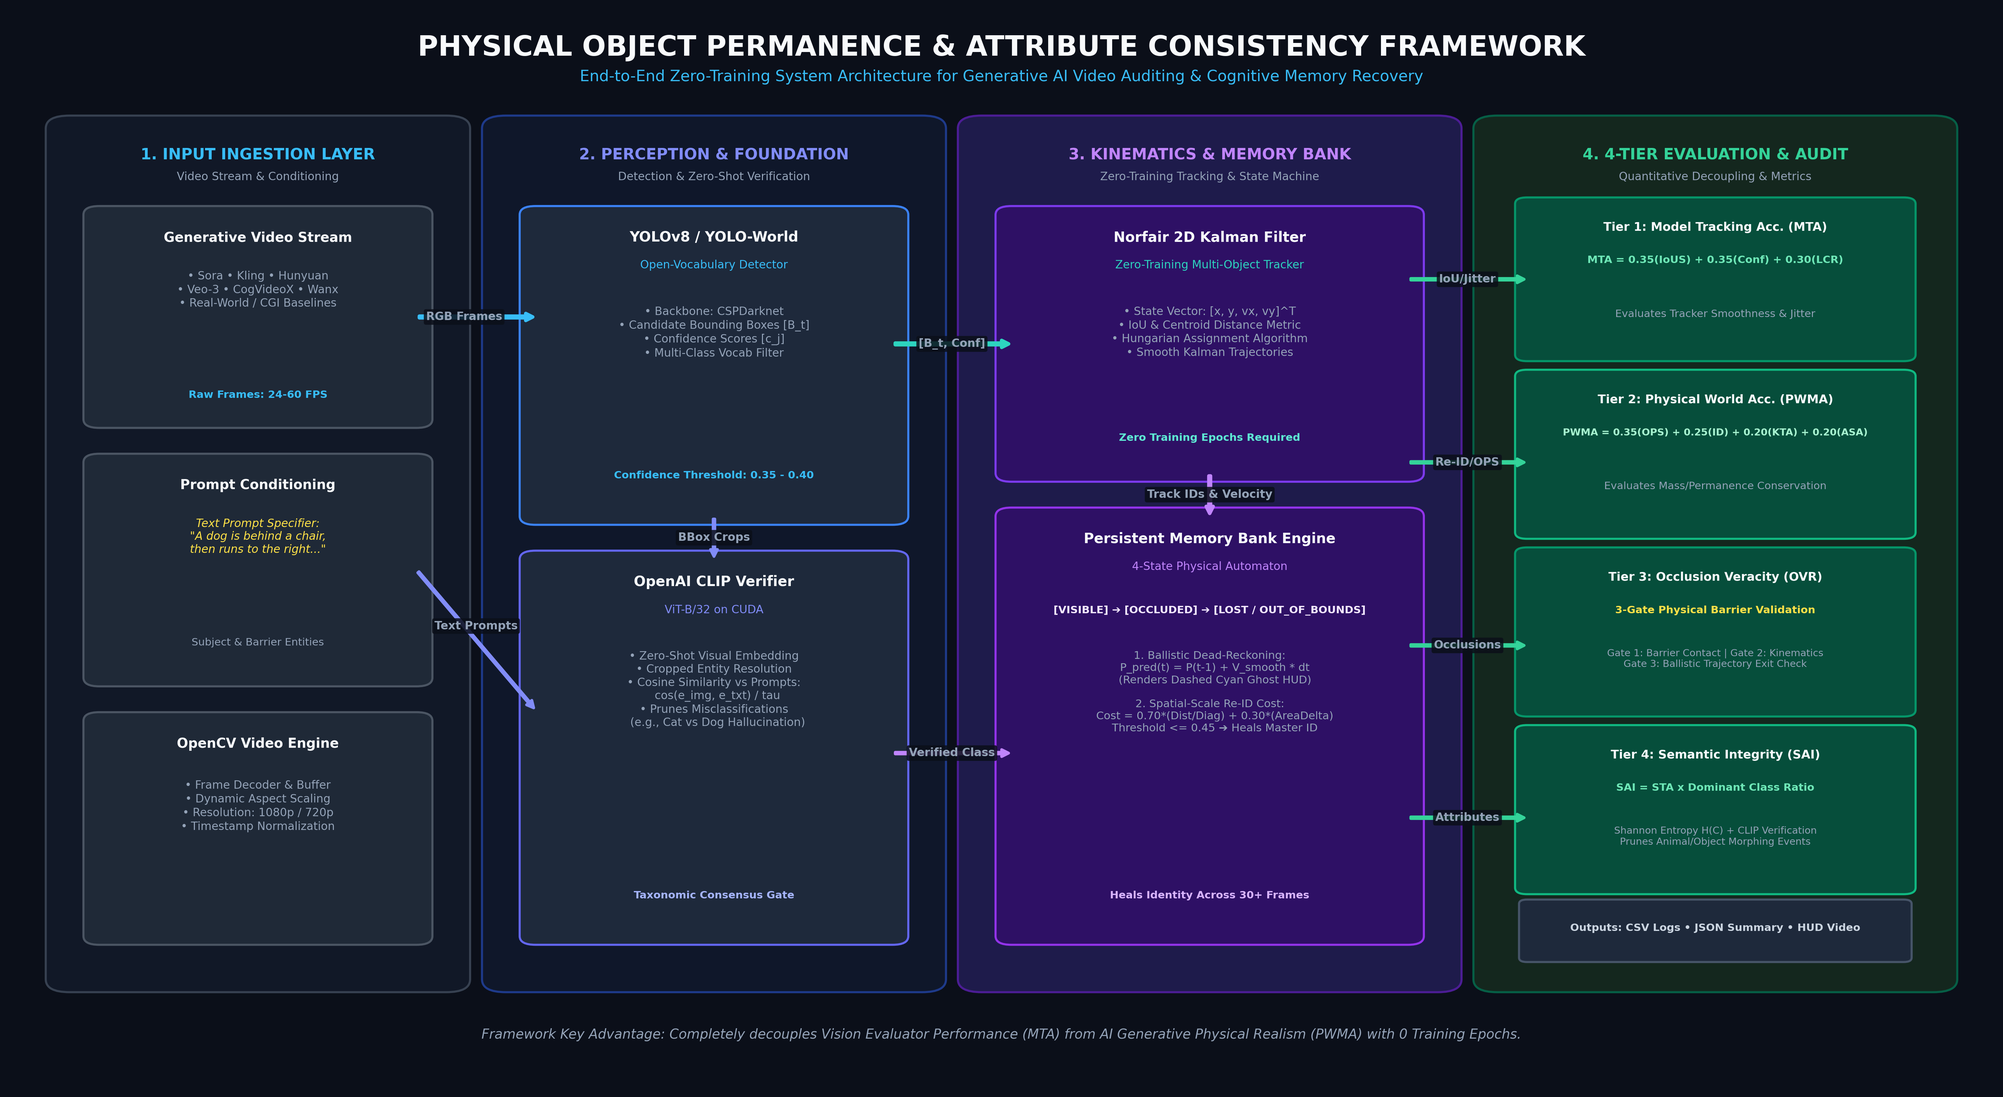
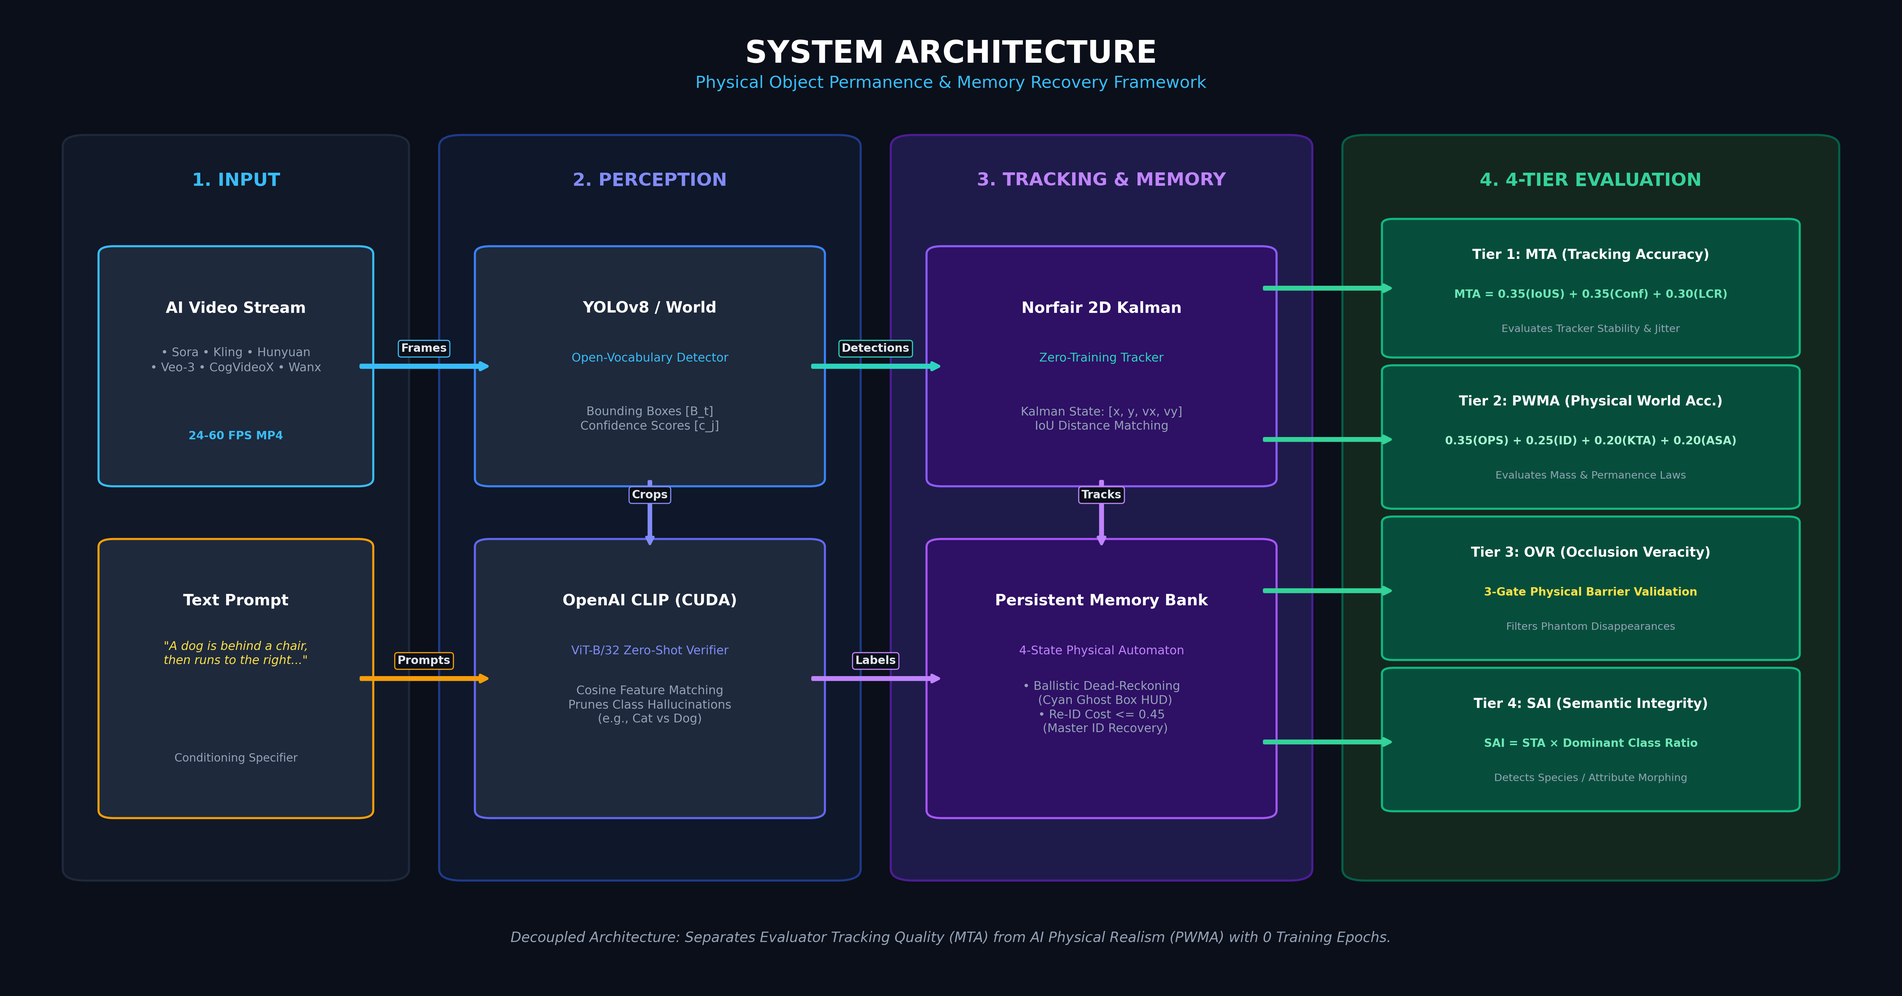
style: streamline system architecture diagram with minimal wording

diff --git a/generate_architecture_diagram.py b/generate_architecture_diagram.py
@@ -3,204 +3,164 @@ import matplotlib.pyplot as plt
 import matplotlib.patches as patches
 from matplotlib.patches import FancyBboxPatch, ArrowStyle
 
-def create_architecture_diagram():
-    # Set up high-resolution canvas
-    fig, ax = plt.subplots(figsize=(20, 11), dpi=300)
-    fig.patch.set_facecolor('#0B0F19') # Deep tech dark background
+def create_clean_architecture_diagram():
+    # Professional 16:9 canvas
+    fig, ax = plt.subplots(figsize=(19, 10), dpi=300)
+    fig.patch.set_facecolor('#0B0F19')
     ax.set_facecolor('#0B0F19')
     ax.set_xlim(0, 100)
     ax.set_ylim(0, 100)
     ax.axis('off')
 
-    # Color Palette - Professional Modern Research Theme
-    c_bg_dark = '#0B0F19'
-    c_card_bg = '#131B2E'
-    c_card_border = '#1E293B'
-    c_text_white = '#F8FAFC'
-    c_text_muted = '#94A3B8'
-    c_text_dim = '#64748B'
-
-    # Accent Colors for Layers
-    c_blue = '#38BDF8'      # Vision & Detection
-    c_indigo = '#818CF8'    # CLIP Foundation
+    # Color Palette - Minimalist Tech Theme
+    c_text_main = '#FFFFFF'
+    c_text_sub = '#94A3B8'
+    c_blue = '#38BDF8'      # Input / Detection
+    c_indigo = '#818CF8'    # CLIP Verifier
     c_teal = '#2DD4BF'      # Kalman Tracking
     c_purple = '#C084FC'    # Memory Bank
-    c_amber = '#FBBF24'     # 4-Tier Evaluation
-    c_emerald = '#34D399'   # Outputs & Audits
+    c_emerald = '#34D399'   # Evaluation Suite
+    c_slate = '#64748B'     # Outputs
 
-    # 1. Main Header
-    ax.text(50, 96.5, "PHYSICAL OBJECT PERMANENCE & ATTRIBUTE CONSISTENCY FRAMEWORK",
-            fontsize=20, weight='bold', color=c_text_white, ha='center', va='center', fontfamily='sans-serif')
-    ax.text(50, 93.8, "End-to-End Zero-Training System Architecture for Generative AI Video Auditing & Cognitive Memory Recovery",
-            fontsize=11, color=c_blue, ha='center', va='center', fontfamily='sans-serif')
+    # Header
+    ax.text(50, 95.5, "SYSTEM ARCHITECTURE", fontsize=22, weight='bold', color=c_text_main, ha='center', va='center')
+    ax.text(50, 92.5, "Physical Object Permanence & Memory Recovery Framework", fontsize=12, color=c_blue, ha='center', va='center')
 
-    # Helper function to draw rounded container cards
-    def draw_card(x, y, w, h, bg_color, border_color, border_width=1.5, radius=1.2, alpha=1.0):
+    # Helper: Draw Card
+    def draw_card(x, y, w, h, bg_color, border_color, border_width=1.5, radius=1.0):
         bbox = FancyBboxPatch((x, y), w, h,
                               boxstyle=f"round,pad={radius},rounding_size={radius}",
                               facecolor=bg_color, edgecolor=border_color,
-                              linewidth=border_width, alpha=alpha, zorder=2)
+                              linewidth=border_width, zorder=2)
         ax.add_patch(bbox)
         return bbox
 
-    # Helper function for arrows
-    def draw_arrow(x1, y1, x2, y2, color=c_blue, style='->', lw=2, dashed=False, label="", label_pos=(0.5, 0.5), label_col=c_text_muted):
-        ls = '--' if dashed else '-'
+    # Helper: Draw Arrow
+    def draw_arrow(x1, y1, x2, y2, color='#38BDF8', lw=2.0, label=""):
         arrow = patches.FancyArrowPatch(
             (x1, y1), (x2, y2),
-            arrowstyle=ArrowStyle("Simple", head_length=5, head_width=5, tail_width=1.2),
-            color=color, linewidth=lw, linestyle=ls, zorder=4
+            arrowstyle=ArrowStyle("Simple", head_length=5, head_width=5, tail_width=1.5),
+            color=color, linewidth=lw, zorder=4
         )
         ax.add_patch(arrow)
         if label:
-            lx = x1 + (x2 - x1) * label_pos[0]
-            ly = y1 + (y2 - y1) * label_pos[1]
-            ax.text(lx, ly, label, fontsize=8, color=label_col, weight='bold', ha='center', va='center',
-                    bbox=dict(boxstyle="round,pad=0.2", facecolor=c_bg_dark, edgecolor='none', alpha=0.85), zorder=5)
+            mx, my = (x1 + x2) / 2, (y1 + y2) / 2
+            ax.text(mx, my + 1.8, label, fontsize=8, weight='bold', color='#E2E8F0', ha='center', va='center',
+                    bbox=dict(boxstyle="round,pad=0.25", facecolor='#0B0F19', edgecolor=color, lw=0.8), zorder=5)
 
     # =========================================================================
-    # COLUMN 1: INPUT & MULTIMODAL INGESTION LAYER (X: 3 - 22)
+    # STAGE 1: INPUT LAYER (X: 4 - 20)
     # =========================================================================
-    draw_card(3, 10, 19, 79, '#111827', '#374151', border_width=1.5)
-    ax.text(12.5, 86.5, "1. INPUT INGESTION LAYER", fontsize=11, weight='bold', color=c_blue, ha='center', va='center')
-    ax.text(12.5, 84.5, "Video Stream & Conditioning", fontsize=8, color=c_text_muted, ha='center', va='center')
+    draw_card(4, 12, 16, 74, '#111827', '#1E293B', radius=1.2)
+    ax.text(12, 82, "1. INPUT", fontsize=13, weight='bold', color=c_blue, ha='center')
 
-    # Sub-card 1: Video Sources
-    draw_card(4.5, 62, 16, 19, '#1F2937', '#4B5563', radius=0.8)
-    ax.text(12.5, 78.5, "Generative Video Stream", fontsize=9.5, weight='bold', color=c_text_white, ha='center')
-    ax.text(12.5, 75.8, "• Sora • Kling • Hunyuan\n• Veo-3 • CogVideoX • Wanx\n• Real-World / CGI Baselines",
-            fontsize=8, color=c_text_muted, ha='center', va='top', linespacing=1.3)
-    ax.text(12.5, 64, "Raw Frames: 24-60 FPS", fontsize=7.5, color=c_blue, ha='center', weight='bold')
+    # Card 1.1: Video Input
+    draw_card(5.5, 52, 13, 23, '#1E293B', '#38BDF8', radius=0.8)
+    ax.text(12, 69, "AI Video Stream", fontsize=11, weight='bold', color=c_text_main, ha='center')
+    ax.text(12, 63, "• Sora • Kling • Hunyuan\n• Veo-3 • CogVideoX • Wanx", fontsize=8.5, color=c_text_sub, ha='center', linespacing=1.4)
+    ax.text(12, 56, "24-60 FPS MP4", fontsize=8, weight='bold', color=c_blue, ha='center')
 
-    # Sub-card 2: Prompt Conditioning
-    draw_card(4.5, 38, 16, 20, '#1F2937', '#4B5563', radius=0.8)
-    ax.text(12.5, 55.5, "Prompt Conditioning", fontsize=9.5, weight='bold', color=c_text_white, ha='center')
-    ax.text(12.5, 52.8, 'Text Prompt Specifier:\n"A dog is behind a chair,\nthen runs to the right..."',
-            fontsize=8, color='#FDE047', ha='center', va='top', style='italic', linespacing=1.2)
-    ax.text(12.5, 41, "Subject & Barrier Entities", fontsize=7.5, color=c_text_muted, ha='center')
-
-    # Sub-card 3: Video Processor
-    draw_card(4.5, 14, 16, 20, '#1F2937', '#4B5563', radius=0.8)
-    ax.text(12.5, 31.5, "OpenCV Video Engine", fontsize=9.5, weight='bold', color=c_text_white, ha='center')
-    ax.text(12.5, 28.5, "• Frame Decoder & Buffer\n• Dynamic Aspect Scaling\n• Resolution: 1080p / 720p\n• Timestamp Normalization",
-            fontsize=8, color=c_text_muted, ha='center', va='top', linespacing=1.3)
+    # Card 1.2: Prompt Input
+    draw_card(5.5, 18, 13, 27, '#1E293B', '#F59E0B', radius=0.8)
+    ax.text(12, 39, "Text Prompt", fontsize=11, weight='bold', color=c_text_main, ha='center')
+    ax.text(12, 33, '"A dog is behind a chair,\nthen runs to the right..."', fontsize=8.5, color='#FDE047', ha='center', style='italic', linespacing=1.3)
+    ax.text(12, 23, "Conditioning Specifier", fontsize=8, color=c_text_sub, ha='center')
 
     # =========================================================================
-    # COLUMN 2: PERCEPTION & FOUNDATION VERIFICATION (X: 25 - 46)
+    # STAGE 2: PERCEPTION & VERIFICATION (X: 24 - 44)
     # =========================================================================
-    draw_card(25, 10, 21, 79, '#0F172A', '#1E3A8A', border_width=1.5)
-    ax.text(35.5, 86.5, "2. PERCEPTION & FOUNDATION", fontsize=11, weight='bold', color=c_indigo, ha='center', va='center')
-    ax.text(35.5, 84.5, "Detection & Zero-Shot Verification", fontsize=8, color=c_text_muted, ha='center', va='center')
+    draw_card(24, 12, 20, 74, '#0F172A', '#1E3A8A', radius=1.2)
+    ax.text(34, 82, "2. PERCEPTION", fontsize=13, weight='bold', color=c_indigo, ha='center')
 
-    # Sub-card 1: YOLO Detector
-    draw_card(26.5, 53, 18, 28, '#1E293B', '#3B82F6', radius=0.8)
-    ax.text(35.5, 78.5, "YOLOv8 / YOLO-World", fontsize=10, weight='bold', color=c_text_white, ha='center')
-    ax.text(35.5, 76, "Open-Vocabulary Detector", fontsize=8, color=c_blue, ha='center')
-    ax.text(35.5, 72.5, "• Backbone: CSPDarknet\n• Candidate Bounding Boxes [B_t]\n• Confidence Scores [c_j]\n• Multi-Class Vocab Filter",
-            fontsize=8, color=c_text_muted, ha='center', va='top', linespacing=1.3)
-    ax.text(35.5, 56.5, "Confidence Threshold: 0.35 - 0.40", fontsize=7.5, color='#38BDF8', ha='center', weight='bold')
+    # Card 2.1: YOLO Detector
+    draw_card(25.5, 52, 17, 23, '#1E293B', '#3B82F6', radius=0.8)
+    ax.text(34, 69, "YOLOv8 / World", fontsize=11, weight='bold', color=c_text_main, ha='center')
+    ax.text(34, 64, "Open-Vocabulary Detector", fontsize=8.5, color=c_blue, ha='center')
+    ax.text(34, 57, "Bounding Boxes [B_t]\nConfidence Scores [c_j]", fontsize=8.5, color=c_text_sub, ha='center', linespacing=1.3)
 
-    # Sub-card 2: CLIP Verifier
-    draw_card(26.5, 14, 18, 35, '#1E293B', '#6366F1', radius=0.8)
-    ax.text(35.5, 46.5, "OpenAI CLIP Verifier", fontsize=10, weight='bold', color=c_text_white, ha='center')
-    ax.text(35.5, 44, "ViT-B/32 on CUDA", fontsize=8, color=c_indigo, ha='center')
-    ax.text(35.5, 40.5, "• Zero-Shot Visual Embedding\n• Cropped Entity Resolution\n• Cosine Similarity vs Prompts:\n  cos(e_img, e_txt) / tau\n• Prunes Misclassifications\n  (e.g., Cat vs Dog Hallucination)",
-            fontsize=8, color=c_text_muted, ha='center', va='top', linespacing=1.25)
-    ax.text(35.5, 17.5, "Taxonomic Consensus Gate", fontsize=7.5, color='#A5B4FC', ha='center', weight='bold')
+    # Card 2.2: CLIP Verifier
+    draw_card(25.5, 18, 17, 27, '#1E293B', '#6366F1', radius=0.8)
+    ax.text(34, 39, "OpenAI CLIP (CUDA)", fontsize=11, weight='bold', color=c_text_main, ha='center')
+    ax.text(34, 34, "ViT-B/32 Zero-Shot Verifier", fontsize=8.5, color=c_indigo, ha='center')
+    ax.text(34, 27, "Cosine Feature Matching\nPrunes Class Hallucinations\n(e.g., Cat vs Dog)", fontsize=8.5, color=c_text_sub, ha='center', linespacing=1.3)
 
     # =========================================================================
-    # COLUMN 3: KINEMATICS & MEMORY BANK (X: 49 - 72)
+    # STAGE 3: KINEMATICS & MEMORY (X: 48 - 68)
     # =========================================================================
-    draw_card(49, 10, 23, 79, '#1E1B4B', '#4C1D95', border_width=1.5)
-    ax.text(60.5, 86.5, "3. KINEMATICS & MEMORY BANK", fontsize=11, weight='bold', color=c_purple, ha='center', va='center')
-    ax.text(60.5, 84.5, "Zero-Training Tracking & State Machine", fontsize=8, color=c_text_muted, ha='center', va='center')
+    draw_card(48, 12, 20, 74, '#1E1B4B', '#4C1D95', radius=1.2)
+    ax.text(58, 82, "3. TRACKING & MEMORY", fontsize=13, weight='bold', color=c_purple, ha='center')
 
-    # Sub-card 1: Norfair 2D Kalman Filter
-    draw_card(50.5, 57, 20, 24, '#2E1065', '#7C3AED', radius=0.8)
-    ax.text(60.5, 78.5, "Norfair 2D Kalman Filter", fontsize=10, weight='bold', color=c_text_white, ha='center')
-    ax.text(60.5, 76, "Zero-Training Multi-Object Tracker", fontsize=8, color=c_teal, ha='center')
-    ax.text(60.5, 72.5, "• State Vector: [x, y, vx, vy]^T\n• IoU & Centroid Distance Metric\n• Hungarian Assignment Algorithm\n• Smooth Kalman Trajectories",
-            fontsize=8, color=c_text_muted, ha='center', va='top', linespacing=1.3)
-    ax.text(60.5, 60, "Zero Training Epochs Required", fontsize=7.5, color='#5EEAD4', ha='center', weight='bold')
+    # Card 3.1: Norfair Tracker
+    draw_card(49.5, 52, 17, 23, '#2E1065', '#8B5CF6', radius=0.8)
+    ax.text(58, 69, "Norfair 2D Kalman", fontsize=11, weight='bold', color=c_text_main, ha='center')
+    ax.text(58, 64, "Zero-Training Tracker", fontsize=8.5, color=c_teal, ha='center')
+    ax.text(58, 57, "Kalman State: [x, y, vx, vy]\nIoU Distance Matching", fontsize=8.5, color=c_text_sub, ha='center', linespacing=1.3)
 
-    # Sub-card 2: Persistent Memory Bank & State Machine
-    draw_card(50.5, 14, 20, 39, '#2E1065', '#9333EA', radius=0.8)
-    ax.text(60.5, 50.5, "Persistent Memory Bank Engine", fontsize=10, weight='bold', color=c_text_white, ha='center')
-    ax.text(60.5, 48, "4-State Physical Automaton", fontsize=8, color=c_purple, ha='center')
-    
-    # State pills
-    ax.text(60.5, 44, "[VISIBLE] ➔ [OCCLUDED] ➔ [LOST / OUT_OF_BOUNDS]", fontsize=7.5, color='#F3E8FF', ha='center', weight='bold')
-    
-    ax.text(60.5, 40.5, "1. Ballistic Dead-Reckoning:\n   P_pred(t) = P(t-1) + V_smooth * dt\n   (Renders Dashed Cyan Ghost HUD)\n\n2. Spatial-Scale Re-ID Cost:\n   Cost = 0.70*(Dist/Diag) + 0.30*(AreaDelta)\n   Threshold <= 0.45 ➔ Heals Master ID",
-            fontsize=7.8, color=c_text_muted, ha='center', va='top', linespacing=1.2)
-    ax.text(60.5, 17.5, "Heals Identity Across 30+ Frames", fontsize=7.5, color='#D8B4FE', ha='center', weight='bold')
+    # Card 3.2: Persistent Memory Bank
+    draw_card(49.5, 18, 17, 27, '#2E1065', '#A855F7', radius=0.8)
+    ax.text(58, 39, "Persistent Memory Bank", fontsize=11, weight='bold', color=c_text_main, ha='center')
+    ax.text(58, 34, "4-State Physical Automaton", fontsize=8.5, color=c_purple, ha='center')
+    ax.text(58, 26, "• Ballistic Dead-Reckoning\n  (Cyan Ghost Box HUD)\n• Re-ID Cost <= 0.45\n  (Master ID Recovery)",
+            fontsize=8.5, color=c_text_sub, ha='center', linespacing=1.3)
 
     # =========================================================================
-    # COLUMN 4: 4-TIER EVALUATION SUITE (X: 75 - 97)
+    # STAGE 4: 4-TIER EVALUATION (X: 72 - 96)
     # =========================================================================
-    draw_card(75, 10, 22, 79, '#14271E', '#065F46', border_width=1.5)
-    ax.text(86, 86.5, "4. 4-TIER EVALUATION & AUDIT", fontsize=11, weight='bold', color=c_emerald, ha='center', va='center')
-    ax.text(86, 84.5, "Quantitative Decoupling & Metrics", fontsize=8, color=c_text_muted, ha='center', va='center')
+    draw_card(72, 12, 24, 74, '#14271E', '#065F46', radius=1.2)
+    ax.text(84, 82, "4. 4-TIER EVALUATION", fontsize=13, weight='bold', color=c_emerald, ha='center')
 
-    # Sub-card: Tier 1 MTA
-    draw_card(76.5, 68, 19, 14, '#064E3B', '#059669', radius=0.6)
-    ax.text(86, 79.5, "Tier 1: Model Tracking Acc. (MTA)", fontsize=8.5, weight='bold', color=c_text_white, ha='center')
-    ax.text(86, 76.5, "MTA = 0.35(IoUS) + 0.35(Conf) + 0.30(LCR)", fontsize=7.5, color='#6EE7B7', ha='center', weight='bold')
-    ax.text(86, 71.5, "Evaluates Tracker Smoothness & Jitter", fontsize=7.5, color=c_text_muted, ha='center')
+    # Card 4.1: MTA
+    draw_card(73.5, 65, 21, 13, '#064E3B', '#10B981', radius=0.6)
+    ax.text(84, 74.5, "Tier 1: MTA (Tracking Accuracy)", fontsize=9.5, weight='bold', color=c_text_main, ha='center')
+    ax.text(84, 70.5, "MTA = 0.35(IoUS) + 0.35(Conf) + 0.30(LCR)", fontsize=8, weight='bold', color='#6EE7B7', ha='center')
+    ax.text(84, 67, "Evaluates Tracker Stability & Jitter", fontsize=7.5, color=c_text_sub, ha='center')
 
-    # Sub-card: Tier 2 PWMA
-    draw_card(76.5, 51.5, 19, 14.5, '#064E3B', '#10B981', radius=0.6)
-    ax.text(86, 63.5, "Tier 2: Physical World Acc. (PWMA)", fontsize=8.5, weight='bold', color=c_text_white, ha='center')
-    ax.text(86, 60.5, "PWMA = 0.35(OPS) + 0.25(ID) + 0.20(KTA) + 0.20(ASA)", fontsize=7, color='#A7F3D0', ha='center', weight='bold')
-    ax.text(86, 55.5, "Evaluates Mass/Permanence Conservation", fontsize=7.5, color=c_text_muted, ha='center')
+    # Card 4.2: PWMA
+    draw_card(73.5, 49.5, 21, 13.5, '#064E3B', '#10B981', radius=0.6)
+    ax.text(84, 59.5, "Tier 2: PWMA (Physical World Acc.)", fontsize=9.5, weight='bold', color=c_text_main, ha='center')
+    ax.text(84, 55.5, "0.35(OPS) + 0.25(ID) + 0.20(KTA) + 0.20(ASA)", fontsize=8, weight='bold', color='#A7F3D0', ha='center')
+    ax.text(84, 52, "Evaluates Mass & Permanence Laws", fontsize=7.5, color=c_text_sub, ha='center')
 
-    # Sub-card: Tier 3 OVR
-    draw_card(76.5, 35, 19, 14.5, '#064E3B', '#059669', radius=0.6)
-    ax.text(86, 47, "Tier 3: Occlusion Veracity (OVR)", fontsize=8.5, weight='bold', color=c_text_white, ha='center')
-    ax.text(86, 44, "3-Gate Physical Barrier Validation", fontsize=7.5, color='#FDE047', ha='center', weight='bold')
-    ax.text(86, 39, "Gate 1: Barrier Contact | Gate 2: Kinematics\nGate 3: Ballistic Trajectory Exit Check",
-            fontsize=7, color=c_text_muted, ha='center', linespacing=1.2)
+    # Card 4.3: OVR
+    draw_card(73.5, 34, 21, 13.5, '#064E3B', '#10B981', radius=0.6)
+    ax.text(84, 44, "Tier 3: OVR (Occlusion Veracity)", fontsize=9.5, weight='bold', color=c_text_main, ha='center')
+    ax.text(84, 40, "3-Gate Physical Barrier Validation", fontsize=8, weight='bold', color='#FDE047', ha='center')
+    ax.text(84, 36.5, "Filters Phantom Disappearances", fontsize=7.5, color=c_text_sub, ha='center')
 
-    # Sub-card: Tier 4 SAI
-    draw_card(76.5, 18.5, 19, 14.5, '#064E3B', '#10B981', radius=0.6)
-    ax.text(86, 30.5, "Tier 4: Semantic Integrity (SAI)", fontsize=8.5, weight='bold', color=c_text_white, ha='center')
-    ax.text(86, 27.5, "SAI = STA x Dominant Class Ratio", fontsize=7.5, color='#6EE7B7', ha='center', weight='bold')
-    ax.text(86, 22.5, "Shannon Entropy H(C) + CLIP Verification\nPrunes Animal/Object Morphing Events",
-            fontsize=7, color=c_text_muted, ha='center', linespacing=1.2)
-
-    # Sub-card: Artifact Outputs
-    draw_card(76.5, 12, 19, 5, '#1E293B', '#475569', radius=0.4)
-    ax.text(86, 14.5, "Outputs: CSV Logs • JSON Summary • HUD Video", fontsize=7.5, color='#CBD5E1', ha='center', weight='bold')
+    # Card 4.4: SAI
+    draw_card(73.5, 18.5, 21, 13.5, '#064E3B', '#10B981', radius=0.6)
+    ax.text(84, 28.5, "Tier 4: SAI (Semantic Integrity)", fontsize=9.5, weight='bold', color=c_text_main, ha='center')
+    ax.text(84, 24.5, "SAI = STA × Dominant Class Ratio", fontsize=8, weight='bold', color='#6EE7B7', ha='center')
+    ax.text(84, 21, "Detects Species / Attribute Morphing", fontsize=7.5, color=c_text_sub, ha='center')
 
     # =========================================================================
-    # CONNECTING ARROWS & DATA PIPELINES
+    # CONNECTING PIPELINES
     # =========================================================================
-    # Input -> YOLO
-    draw_arrow(20.5, 71.5, 26.5, 71.5, color=c_blue, lw=2.5, label="RGB Frames", label_pos=(0.4, 0.5))
-    # Input -> Prompt Conditioning -> YOLO & CLIP
-    draw_arrow(20.5, 48, 26.5, 35, color=c_indigo, lw=2, label="Text Prompts", label_pos=(0.5, 0.4))
-    
+    # Video -> YOLO
+    draw_arrow(18.5, 63.5, 25.5, 63.5, color=c_blue, lw=2.2, label="Frames")
+    # Prompt -> CLIP & YOLO
+    draw_arrow(18.5, 31.5, 25.5, 31.5, color='#F59E0B', lw=2.0, label="Prompts")
+
     # YOLO -> Norfair
-    draw_arrow(44.5, 69, 50.5, 69, color=c_teal, lw=2.5, label="[B_t, Conf]", label_pos=(0.5, 0.5))
-    # YOLO -> CLIP (Crops)
-    draw_arrow(35.5, 53, 35.5, 49, color=c_indigo, lw=2, label="BBox Crops", label_pos=(0.5, 0.5))
-    # CLIP -> Memory Bank & Metrics
-    draw_arrow(44.5, 31, 50.5, 31, color=c_purple, lw=2, label="Verified Class", label_pos=(0.5, 0.5))
+    draw_arrow(42.5, 63.5, 49.5, 63.5, color=c_teal, lw=2.2, label="Detections")
+    # YOLO -> CLIP (Crops) & CLIP -> Memory
+    draw_arrow(34, 52, 34, 45, color=c_indigo, lw=1.8, label="Crops")
+    draw_arrow(42.5, 31.5, 49.5, 31.5, color=c_purple, lw=2.0, label="Labels")
 
-    # Norfair -> Memory Bank
-    draw_arrow(60.5, 57, 60.5, 53, color=c_purple, lw=2.5, label="Track IDs & Velocity", label_pos=(0.5, 0.5))
+    # Norfair -> Memory
+    draw_arrow(58, 52, 58, 45, color=c_purple, lw=2.0, label="Tracks")
 
-    # Kinematics & Memory Bank -> Evaluation Suite
-    draw_arrow(70.5, 75, 76.5, 75, color=c_emerald, lw=2, label="IoU/Jitter", label_pos=(0.5, 0.5))
-    draw_arrow(70.5, 58, 76.5, 58, color=c_emerald, lw=2, label="Re-ID/OPS", label_pos=(0.5, 0.5))
-    draw_arrow(70.5, 41, 76.5, 41, color=c_emerald, lw=2, label="Occlusions", label_pos=(0.5, 0.5))
-    draw_arrow(70.5, 25, 76.5, 25, color=c_emerald, lw=2, label="Attributes", label_pos=(0.5, 0.5))
+    # Memory -> Evaluation Suite
+    draw_arrow(66.5, 71.5, 73.5, 71.5, color=c_emerald, lw=2.0)
+    draw_arrow(66.5, 56, 73.5, 56, color=c_emerald, lw=2.0)
+    draw_arrow(66.5, 40.5, 73.5, 40.5, color=c_emerald, lw=2.0)
+    draw_arrow(66.5, 25, 73.5, 25, color=c_emerald, lw=2.0)
 
-    # Bottom Footer Note
-    ax.text(50, 4.5, "Framework Key Advantage: Completely decouples Vision Evaluator Performance (MTA) from AI Generative Physical Realism (PWMA) with 0 Training Epochs.",
-            fontsize=9.5, color=c_text_muted, ha='center', style='italic')
+    # Bottom Footer
+    ax.text(50, 4.5, "Decoupled Architecture: Separates Evaluator Tracking Quality (MTA) from AI Physical Realism (PWMA) with 0 Training Epochs.",
+            fontsize=10, color=c_text_sub, ha='center', style='italic')
 
-    # Save outputs
+    # Save
     out_dir = os.path.join("Object_permanence", "outputs", "plots")
     os.makedirs(out_dir, exist_ok=True)
     out_path = os.path.join(out_dir, "system_architecture_diagram.png")
@@ -211,7 +171,7 @@ def create_architecture_diagram():
     plt.savefig(root_out_path, dpi=300, bbox_inches='tight', facecolor='#0B0F19')
     plt.close()
 
-    print(f"[SUCCESS] Architecture diagram generated at:\n  - {out_path}\n  - {root_out_path}")
+    print(f"[SUCCESS] Clean architecture diagram generated at:\n  - {out_path}\n  - {root_out_path}")
 
 if __name__ == "__main__":
-    create_architecture_diagram()
+    create_clean_architecture_diagram()
